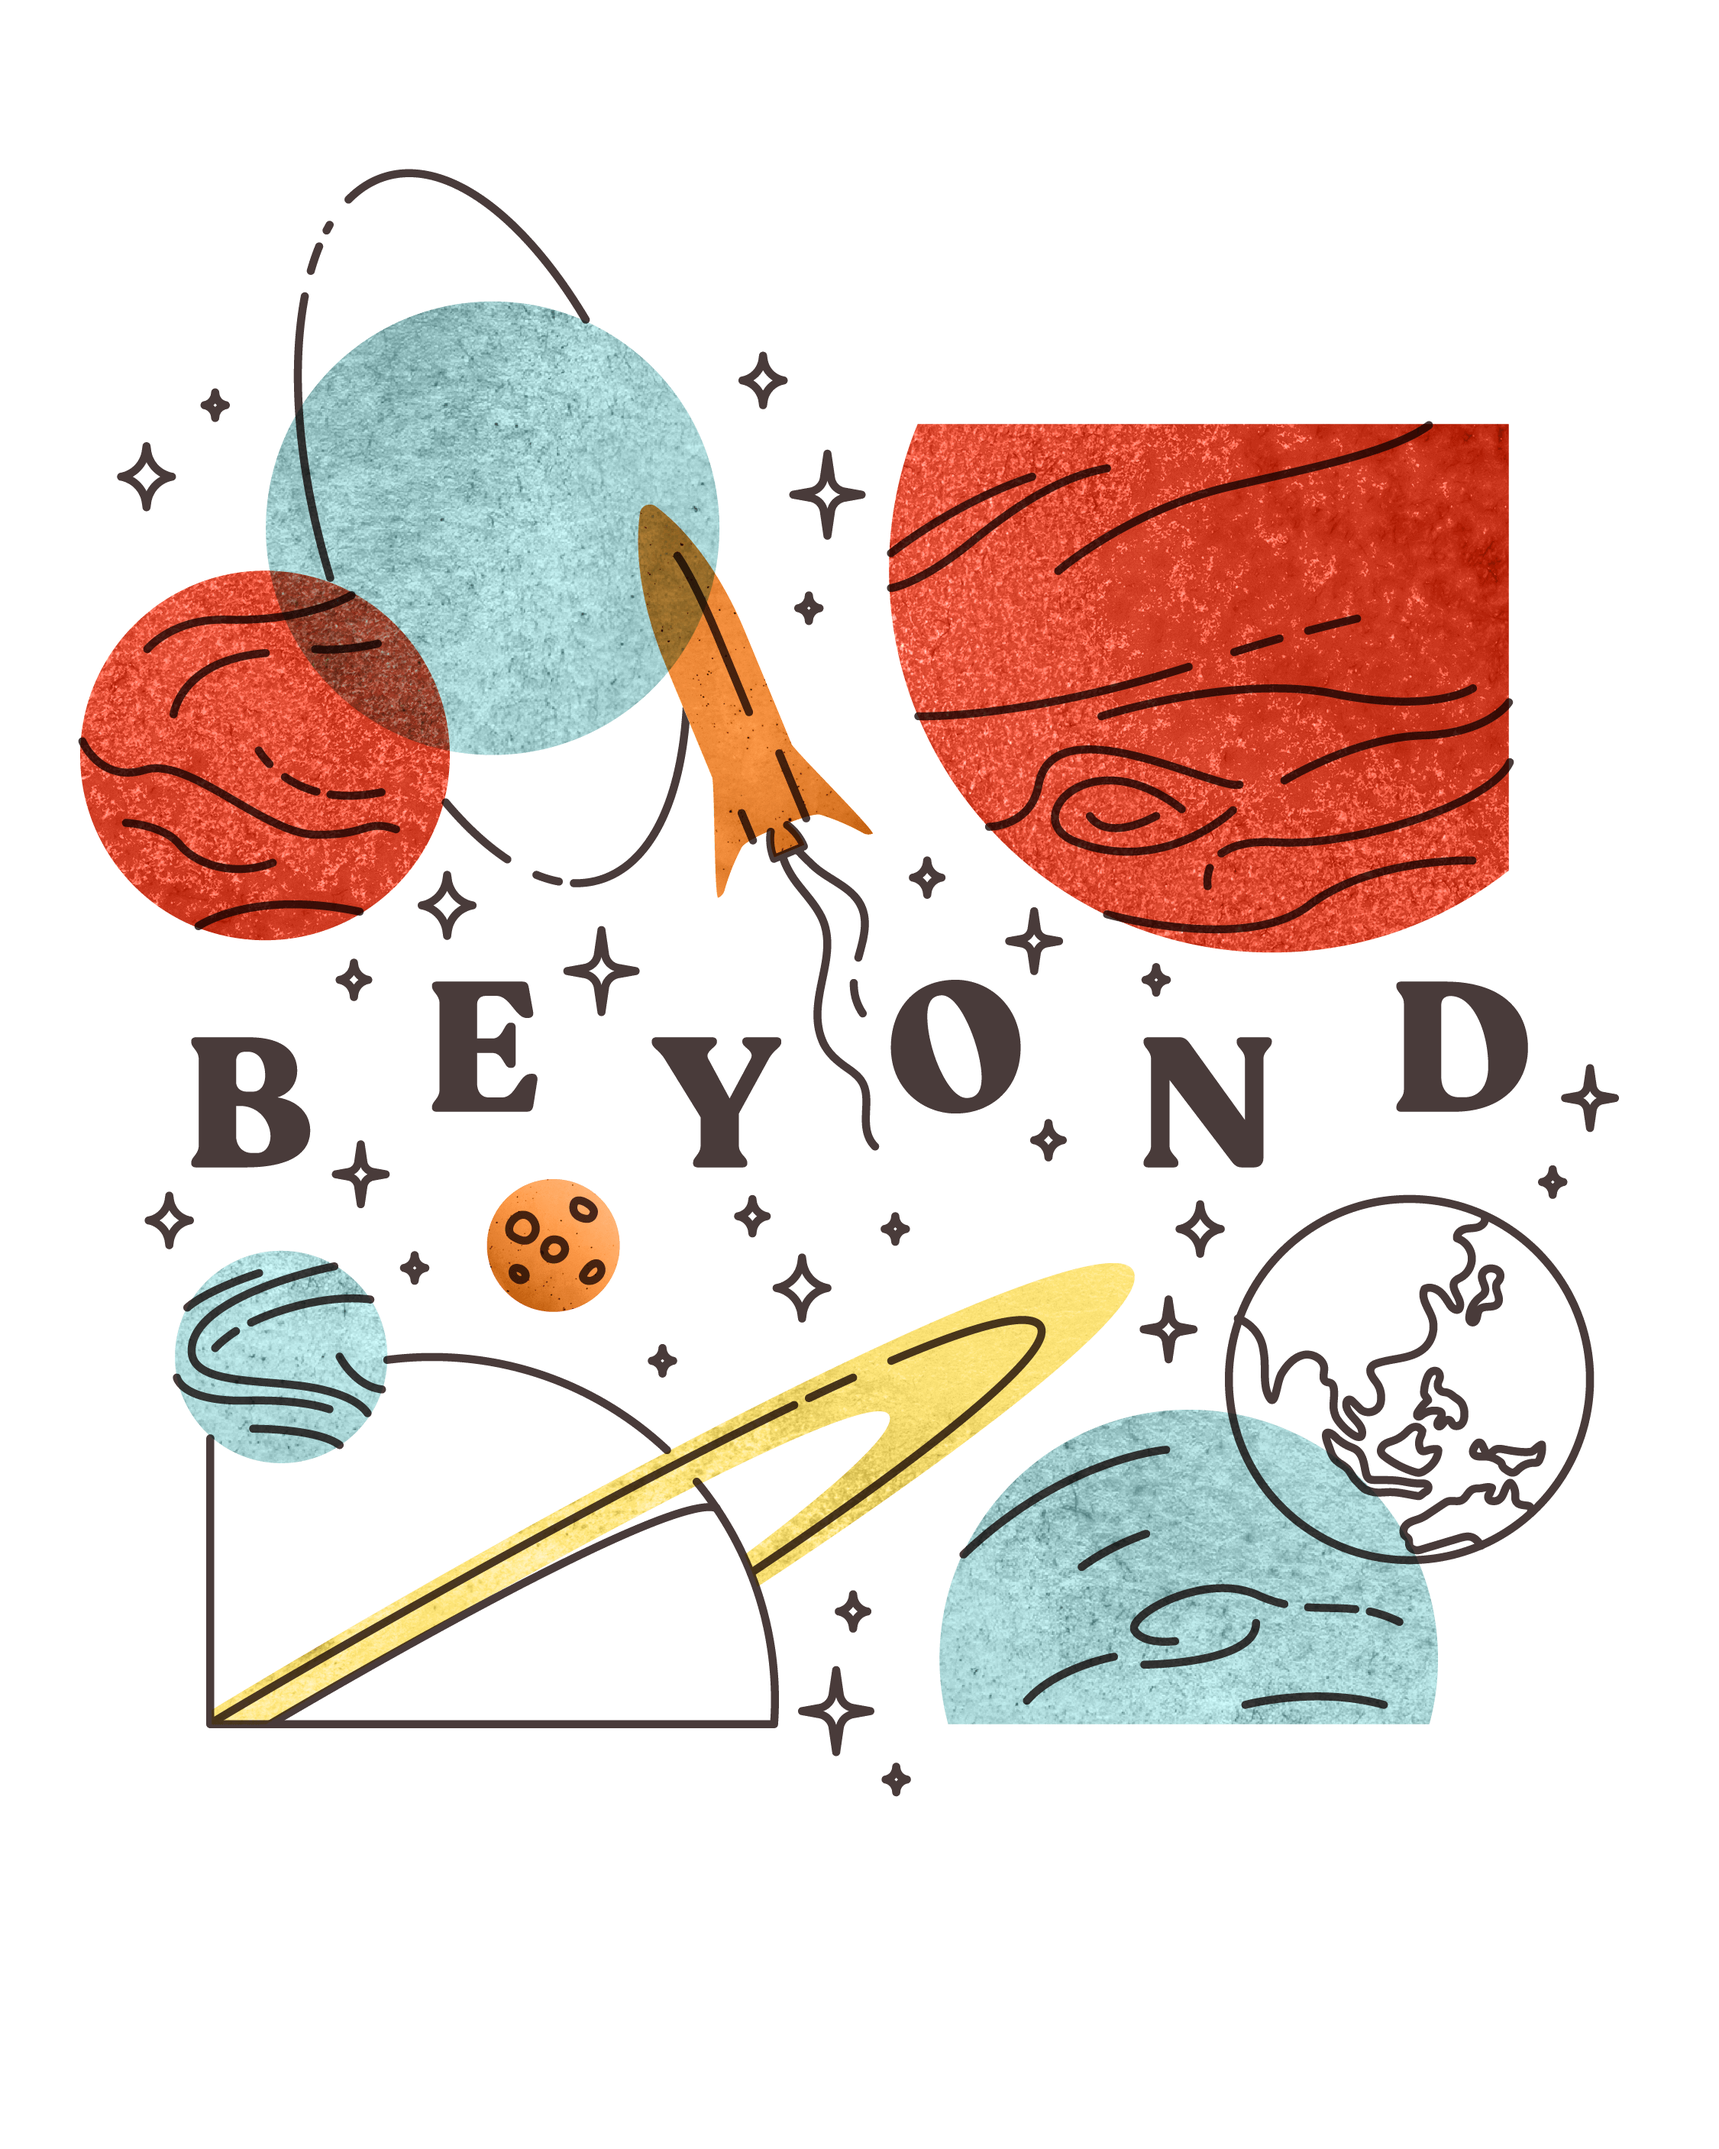
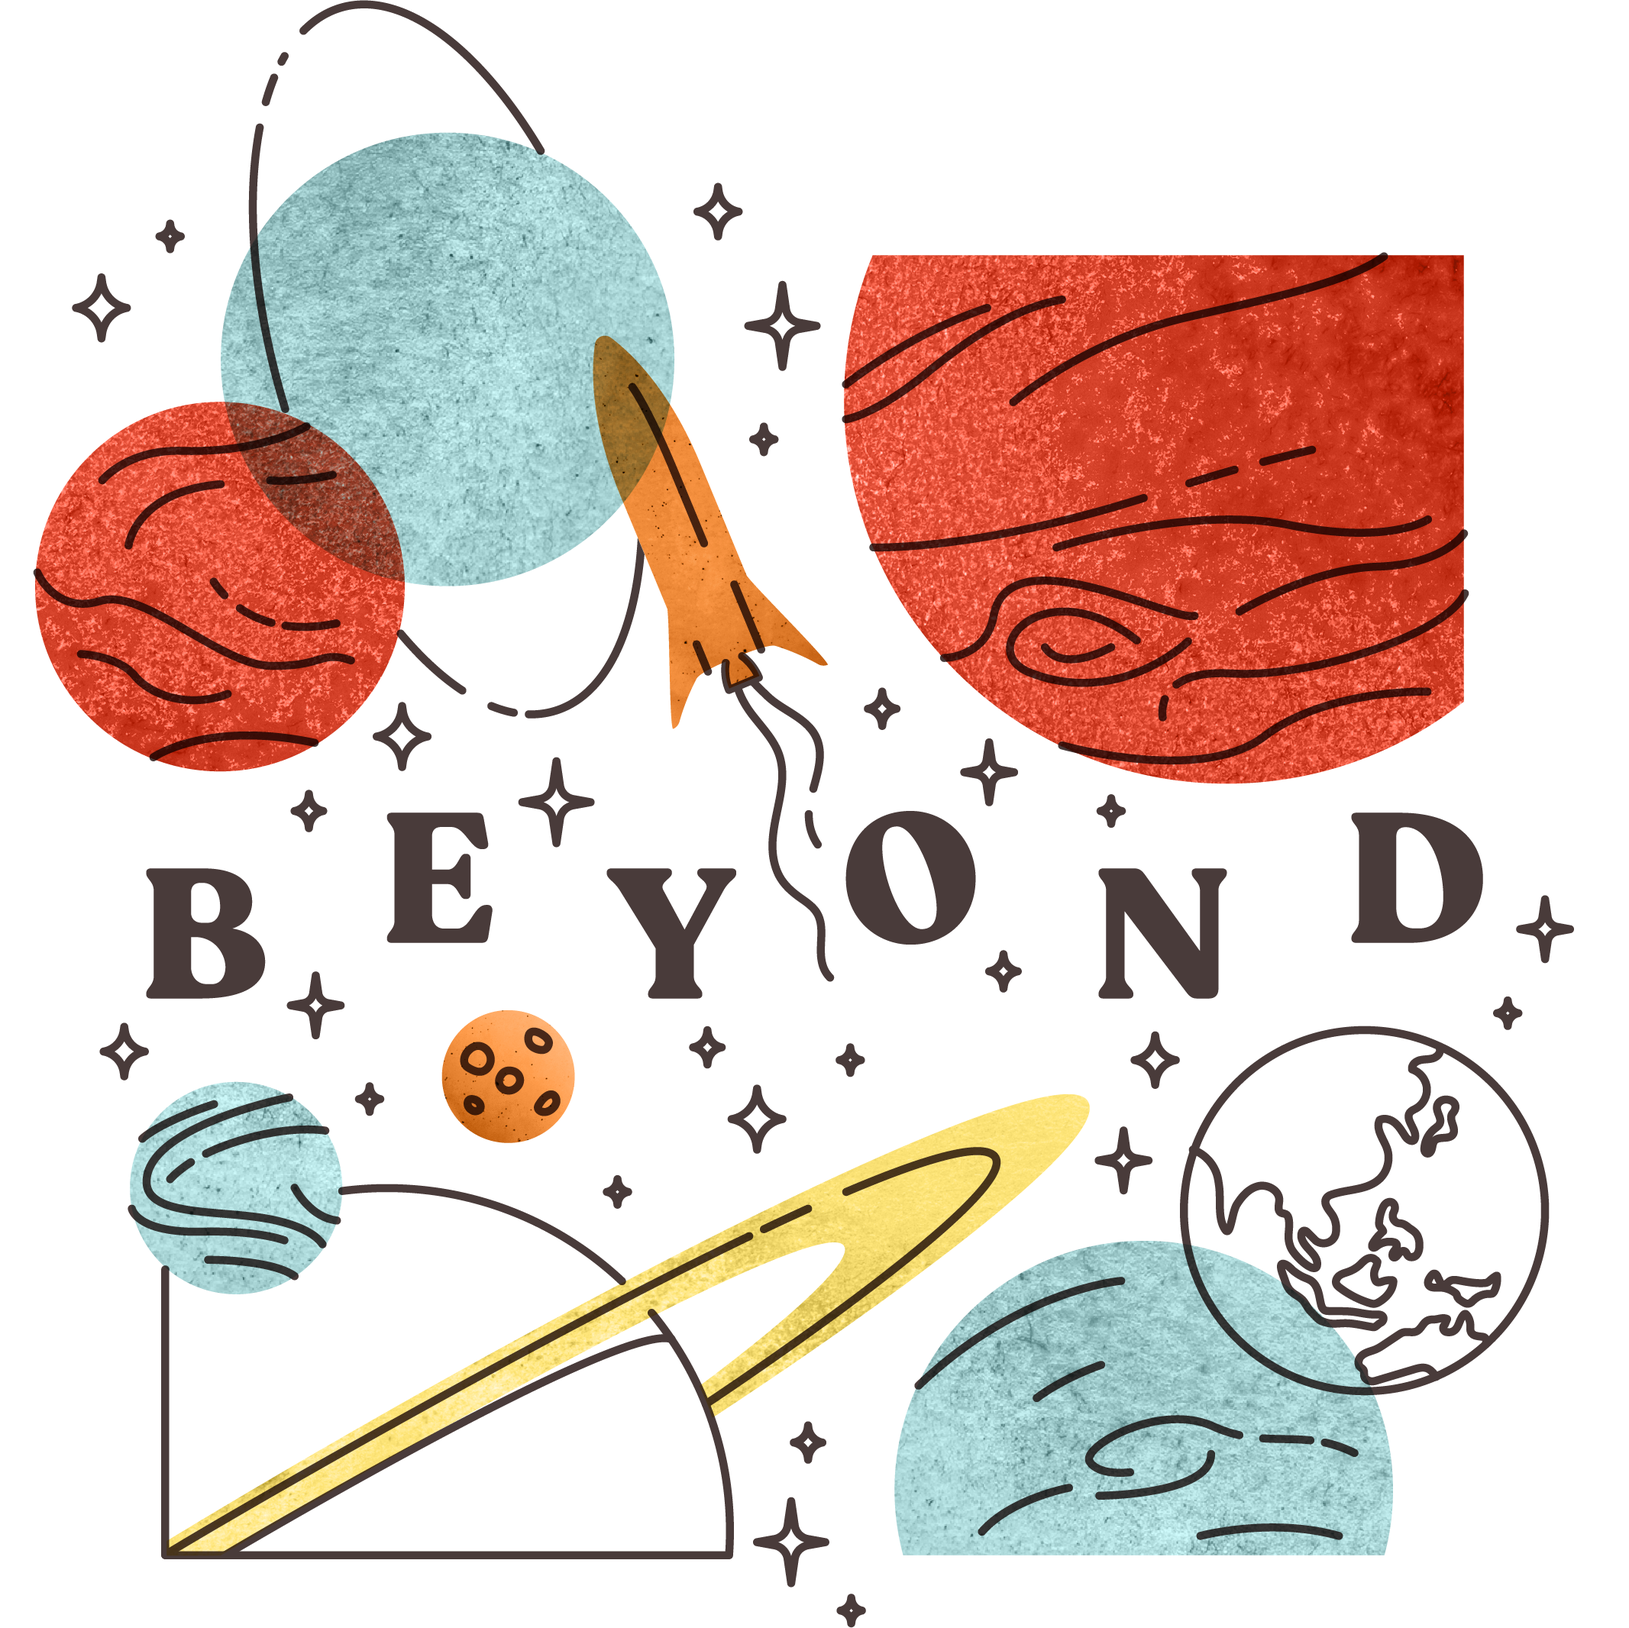
Edited camp pictures

diff --git a/index.html b/index.html
@@ -37,12 +37,12 @@
     <div class="container">
       <div class="row">
         <div class="col-12 col-md-6 text-center">
-          <img width="100%" src="img/rooted.png" />
+          <img width="100%" src="img/rooted.png" class="px-5 pb-4"/>
           <button type="button" class="btn btn-outline-dark" style="font-size:1.5rem; border-radius:25px; border-width:2px">sign up for high school camp</button>
         </div>
         <div class="col-12 col-md-6 text-center">
-          <img width="100%" src="img/beyond.png" />
-          <button type="button" class="btn btn-outline-info">Info</button>
+          <img width="100%" src="img/beyond.png" class="px-5 pb-4"/>
+          <button type="button" class="btn btn-outline-dark" style="font-size:1.5rem; border-radius:25px; border-width:2px">sign up for college camp</button>
         </div>
       </div>
     </div>
